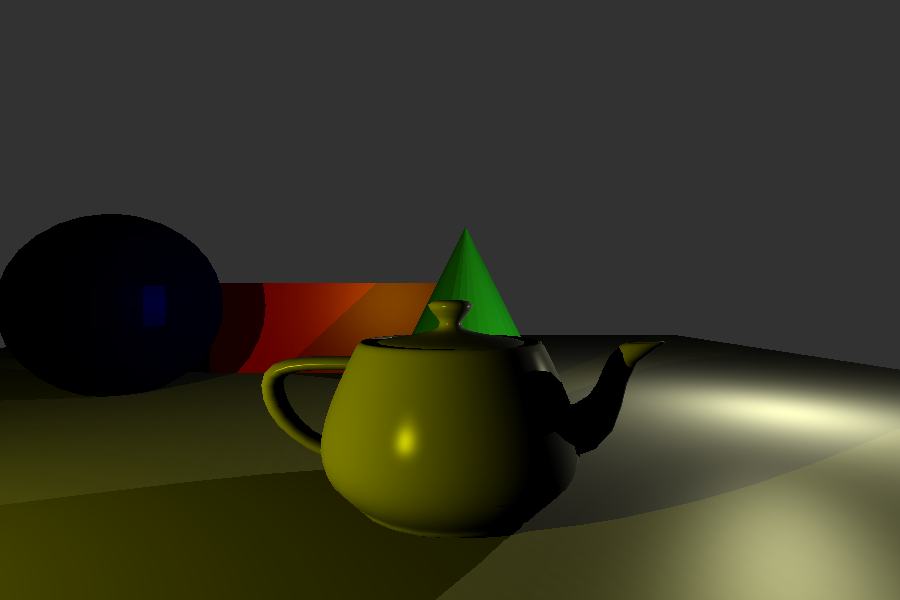
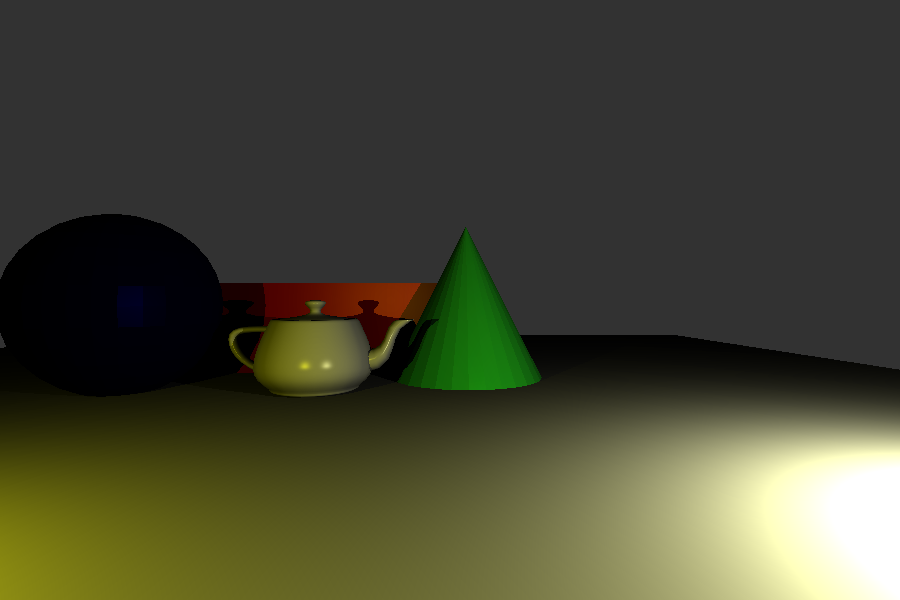
Lights now have an inverse square falloff instead of inverse linear.

diff --git a/src/me/alejandro/raytracer/engine/Render.java b/src/me/alejandro/raytracer/engine/Render.java
@@ -139,7 +139,7 @@ public class Render {
 					if(!lightRayHitSomething && DIFFUSE) { //if there isn't something in the way of the light, then...
 						double lightIntensity = Math.cos(interpolatedNormal.angleRadians(lampVectorNotNormalized));
 						if(lightIntensity < 0) continue;
-						double lightDistance = lampVectorNotNormalized.length() + 1;
+						double lightDistance = Math.pow(lampVectorNotNormalized.length(), 2) + 1; //power of 2 because we must follow inverse square law
 						red += (int) ((lightIntensity * (loopLamp.getColor().getRed() * model.getMaterial().getColor().getRed() / 255) * loopLamp.getIntensity()) / lightDistance);
 						green += (int) ((lightIntensity * (loopLamp.getColor().getGreen() * model.getMaterial().getColor().getGreen() / 255) * loopLamp.getIntensity()) / lightDistance);
 						blue += (int) ((lightIntensity * (loopLamp.getColor().getBlue() * model.getMaterial().getColor().getBlue() / 255) * loopLamp.getIntensity()) / lightDistance);
@@ -158,7 +158,7 @@ public class Render {
 						double specular_amount = Math.cos(specular.angleRadians(lampVectorNotNormalized));
 
 						if(specular_amount < 0) specular_amount = 0;
-						specular_amount = (Math.pow(specular_amount, model.getMaterial().getSpecularHardness()) / (lampVectorNotNormalized.length() + 1)) * model.getMaterial().getSpecularIntensity(); //hardness and intensity
+						specular_amount = (Math.pow(specular_amount, model.getMaterial().getSpecularHardness()) / (Math.pow(lampVectorNotNormalized.length(), 2) + 1)) * model.getMaterial().getSpecularIntensity(); //hardness and intensity
 						red += (int) (specular_amount * (loopLamp.getColor().getRed() * model.getMaterial().getSpecularColor().getRed() / 255) * loopLamp.getIntensity());
 						green += (int) (specular_amount * (loopLamp.getColor().getGreen() * model.getMaterial().getSpecularColor().getGreen() / 255) * loopLamp.getIntensity());
 						blue += (int) (specular_amount * (loopLamp.getColor().getBlue() * model.getMaterial().getSpecularColor().getBlue() / 255) * loopLamp.getIntensity());

diff --git a/src/me/alejandro/raytracer/Main.java b/src/me/alejandro/raytracer/Main.java
@@ -75,8 +75,8 @@ public class Main {
 		cone.getMaterial().setSpecularColor(new Color(50, 255, 50));
 		cone.getMaterial().setReflectiveness(0.3);
 
-		//teapot.translate(new Vector(-1.5, -1, 5));
-		teapot.translate(new Vector(0, -1, 2.3));
+		teapot.translate(new Vector(-1.5, -1, 5));
+		//teapot.translate(new Vector(0, 0, 2.3));
 		teapot.getMaterial().setColor(Color.WHITE);
 		teapot.getMaterial().setSpecularHardness(200);
 		teapot.getMaterial().setSpecularColor(Color.WHITE);
@@ -85,14 +85,14 @@ public class Main {
 
 
         Scene scene = new Scene();
-		scene.models.add(plane);
+        scene.models.add(plane);
 		scene.models.add(sphere);
 		scene.models.add(cube);
 		scene.models.add(cone);
 		scene.models.add(teapot);
 
-		Lamp lamp = new Lamp(new Coordinate(3, 0, 4), 2D, new Color(255, 255, 200), LampType.POINT);
-		Lamp lamp1 = new Lamp(new Coordinate(-3, 0, 0), 2D, new Color(255, 255, 0), LampType.POINT);
+		Lamp lamp = new Lamp(new Coordinate(3, 0, 1.2), 10D, new Color(255, 255, 200), LampType.POINT);
+		Lamp lamp1 = new Lamp(new Coordinate(-3, 0, 0), 7D, new Color(255, 255, 0), LampType.POINT);
 		scene.lamps.add(lamp);
 		scene.lamps.add(lamp1);
 
